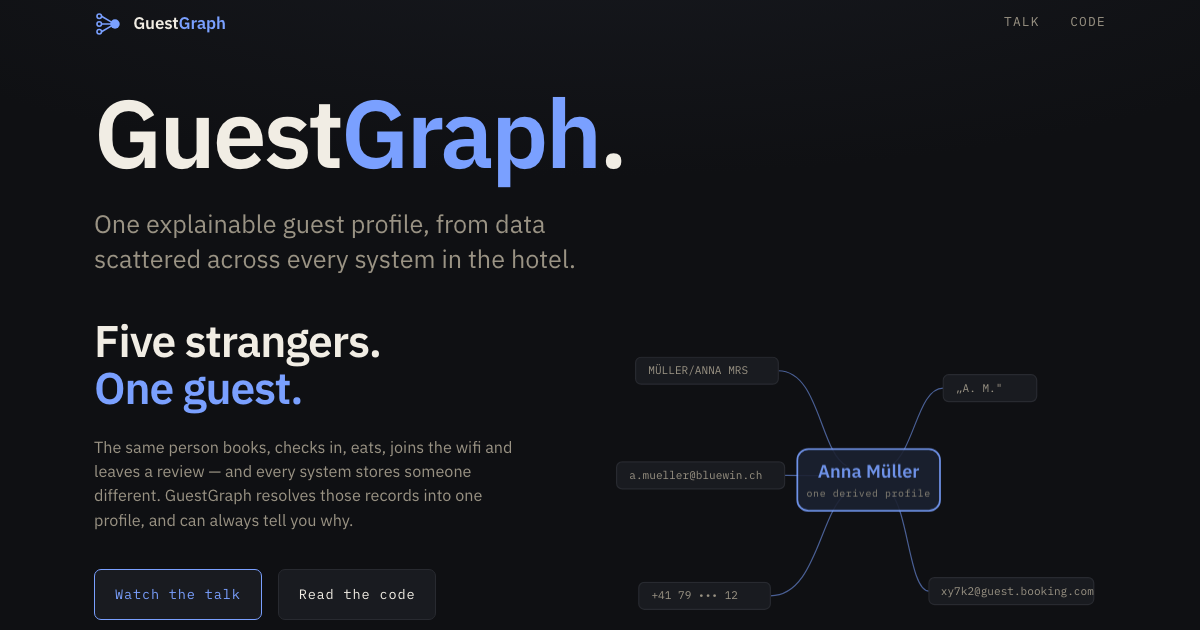
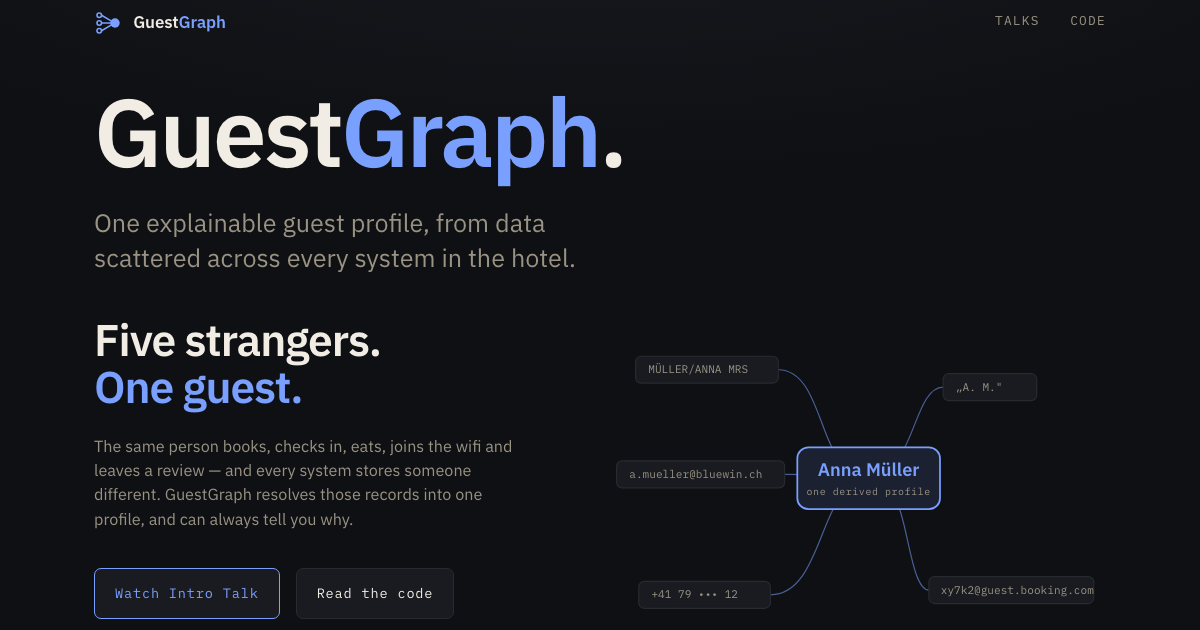
Point the nav at the talks index, and name the button
The nav item said "Talk" and went straight to the intro deck, so the talks
index it was named after was reachable from nowhere on this page. It now says
"Talks" and goes to the index, in this tab: the rule about opening links in a
new tab is about what the visitor has not finished with, and nobody is mid-way
through a list of one link. The button still opens the deck in a new tab, and
now says which deck — "Watch Intro Talk" rather than "Watch the talk", which
will stop being true the moment there is a second one.

Re-rendering the share card nearly shipped it broken. The figure animates in
over a chain that ends at 2.15s with the profile box last, so a card rendered
after a plausible wait shows the five records and the wires but not the box
they converge on — five records connected to nothing, and it looks deliberate.
Emulating prefers-reduced-motion renders the settled state the page itself
defines instead of racing a timer. CLAUDE.md carries the recipe.

diff --git a/index.html b/index.html
@@ -164,7 +164,7 @@
         <b>Guest<span>Graph</span></b>
       </a>
       <nav>
-        <a target="_blank" rel="noopener" href="https://guestgraph.io/talks/intro/">Talk</a>
+        <a href="https://guestgraph.io/talks/">Talks</a>
         <a target="_blank" rel="noopener" href="https://github.com/guestgraph/engine">Code</a>
       </nav>
     </div>
@@ -187,7 +187,7 @@
           and can always tell you why.
         </p>
         <div class="cta">
-          <a target="_blank" rel="noopener" class="btn primary" href="https://guestgraph.io/talks/intro/">Watch the talk</a>
+          <a target="_blank" rel="noopener" class="btn primary" href="https://guestgraph.io/talks/intro/">Watch Intro Talk</a>
           <a target="_blank" rel="noopener" class="btn" href="https://github.com/guestgraph/engine">Read the code</a>
         </div>
         <p class="ctameta mono">12 minutes · German or English</p>

diff --git a/CLAUDE.md b/CLAUDE.md
@@ -34,7 +34,11 @@ number carrying that obligation, which is what makes it worth naming.
   org — `guestgraph/talks` serves at guestgraph.io/talks/ with no configuration of its
   own. Renaming this repo or removing `CNAME` silently breaks the talks URL.
 - **Outbound links open in a new tab** — `target="_blank" rel="noopener"`. A visitor
-  leaving for the talk or the repo should not lose the page.
+  leaving for a deck or the repo should not lose the page. **The nav's `Talks` link is
+  the exception**: `guestgraph.io/talks/` is an index — a short list page you read and
+  leave — not a twelve-minute deck, so it stays in the tab. The rule is about what the
+  visitor has not finished with, and nobody is mid-way through a list of two links. The
+  `Watch Intro Talk` button still opens a new tab, because that one is a deck.
 - **Self-contained apart from the Google Fonts stylesheet.** No other external asset.
 - **The avatar is uploaded by hand** — GitHub takes no SVG and offers no API for it.
   Upload `avatar.png` (Organisation → Settings → Profile).
@@ -54,6 +58,15 @@ this repo has none. To remake it after a visual change, render `index.html` at 1
 and take the middle 630 rows; `intro/export-og.mjs` in the talks repo does exactly that
 and is the reference. Its declared size in the `og:image:width`/`height` tags must keep
 matching the file.
+
+**Render it with `prefers-reduced-motion` emulated** (Playwright: `reducedMotion:
+"reduce"`). The figure animates in over a chain that finishes at 2.15s — chips, then
+wires, then the profile box last of all — so a render that merely waits "long enough"
+catches the diagram mid-draw. It fails in the worst way available: the wires arrive and
+the box they converge on does not, so the card ships showing five records connected to
+nothing, and it looks deliberate. The page's own `@media (prefers-reduced-motion)` block
+already defines the settled state; emulating it renders that state exactly instead of
+racing a timer.
 
 The page is English only, so there is no hreflang here. The decks are bilingual on one
 URL and only one language is indexable; that is a known, accepted limit, recorded in the
